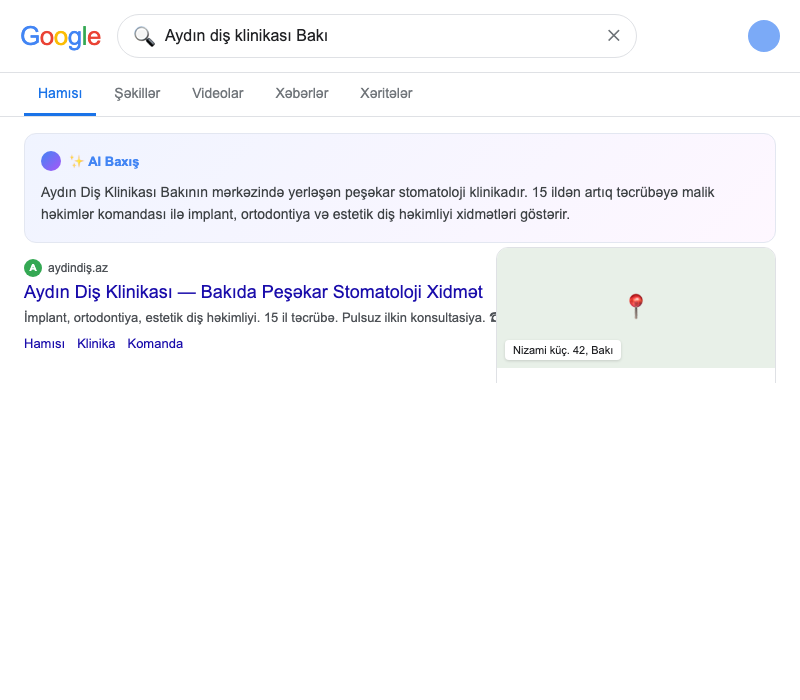
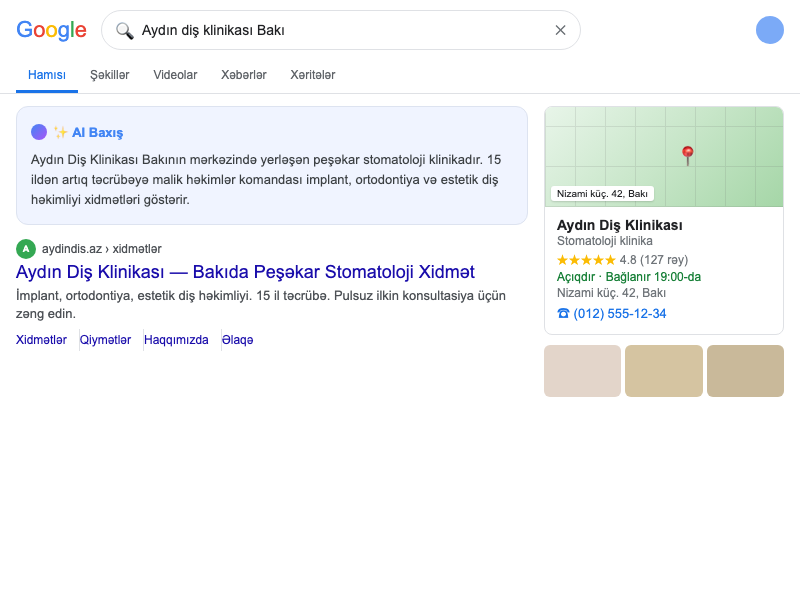
Fix before/after slider clipping and improve after screenshot realism
- Use clipPath instead of width for before image clipping (no resize)
- Redesigned after screenshot with proper Google layout: AI overview,
  SEO result with sitelinks, knowledge panel with map/rating/hours/phone
- Both images now same 800x600 dimensions
- White slider handle with arrow SVG icons

diff --git a/components/ui/BeforeAfterSlider.tsx b/components/ui/BeforeAfterSlider.tsx
@@ -27,7 +27,7 @@ export function BeforeAfterSlider({ beforeSrc, afterSrc, beforeAlt, afterAlt, be
 
   function handlePointerDown(e: React.PointerEvent) {
     isDragging.current = true;
-    (e.target as HTMLElement).setPointerCapture(e.pointerId);
+    (e.target as HTMLElement).setPointerCapture?.(e.pointerId);
     updatePosition(e.clientX);
   }
 
@@ -47,29 +47,33 @@ export function BeforeAfterSlider({ beforeSrc, afterSrc, beforeAlt, afterAlt, be
       onPointerDown={handlePointerDown}
       onPointerMove={handlePointerMove}
       onPointerUp={handlePointerUp}
+      onPointerLeave={handlePointerUp}
       style={{ touchAction: "none" }}
     >
-      {/* After image (full, behind) */}
-      <Image src={afterSrc} alt={afterAlt} width={800} height={700} className="w-full h-auto block" draggable={false} priority />
+      {/* After image — full, sits behind */}
+      <Image src={afterSrc} alt={afterAlt} width={800} height={600} className="w-full h-auto block" draggable={false} priority />
 
-      {/* Before image (clipped) */}
-      <div className="absolute inset-0 overflow-hidden" style={{ width: `${position}%` }}>
-        <Image src={beforeSrc} alt={beforeAlt} width={800} height={700} className="w-full h-auto block" style={{ width: containerRef.current?.offsetWidth || "100%" }} draggable={false} priority />
+      {/* Before image — same size, clipped by position */}
+      <div
+        className="absolute inset-0 overflow-hidden"
+        style={{ clipPath: `inset(0 ${100 - position}% 0 0)` }}
+      >
+        <Image src={beforeSrc} alt={beforeAlt} width={800} height={600} className="w-full h-auto block" draggable={false} priority />
       </div>
 
-      {/* Slider line */}
-      <div className="absolute top-0 bottom-0" style={{ left: `${position}%` }}>
-        <div className="absolute top-0 bottom-0 w-[2px] bg-accent -translate-x-1/2" />
-        <div className="absolute top-1/2 -translate-x-1/2 -translate-y-1/2 w-[36px] h-[36px] rounded-full bg-accent text-white flex items-center justify-center shadow-[var(--shadow-lift)] text-[14px]">
-          ⟨⟩
+      {/* Slider handle */}
+      <div className="absolute top-0 bottom-0 pointer-events-none" style={{ left: `${position}%` }}>
+        <div className="absolute top-0 bottom-0 w-[2px] bg-white -translate-x-1/2 shadow-[0_0_4px_rgba(0,0,0,0.3)]" />
+        <div className="absolute top-1/2 -translate-x-1/2 -translate-y-1/2 w-[32px] h-[32px] rounded-full bg-white flex items-center justify-center shadow-[0_2px_8px_rgba(0,0,0,0.2)]">
+          <svg width="16" height="16" viewBox="0 0 16 16" fill="none"><path d="M5 3L2 8L5 13" stroke="#666" strokeWidth="1.5" strokeLinecap="round" strokeLinejoin="round"/><path d="M11 3L14 8L11 13" stroke="#666" strokeWidth="1.5" strokeLinecap="round" strokeLinejoin="round"/></svg>
         </div>
       </div>
 
       {/* Labels */}
-      <div className="absolute top-[12px] left-[12px] bg-ink/70 text-white text-[11px] font-medium px-[8px] py-[3px] rounded-[4px] pointer-events-none">
+      <div className="absolute top-[10px] left-[10px] bg-black/60 text-white text-[11px] font-medium px-[8px] py-[3px] rounded-[4px] pointer-events-none backdrop-blur-sm">
         {beforeLabel}
       </div>
-      <div className="absolute top-[12px] right-[12px] bg-accent/90 text-white text-[11px] font-medium px-[8px] py-[3px] rounded-[4px] pointer-events-none">
+      <div className="absolute top-[10px] right-[10px] bg-accent/85 text-white text-[11px] font-medium px-[8px] py-[3px] rounded-[4px] pointer-events-none backdrop-blur-sm">
         {afterLabel}
       </div>
     </div>
